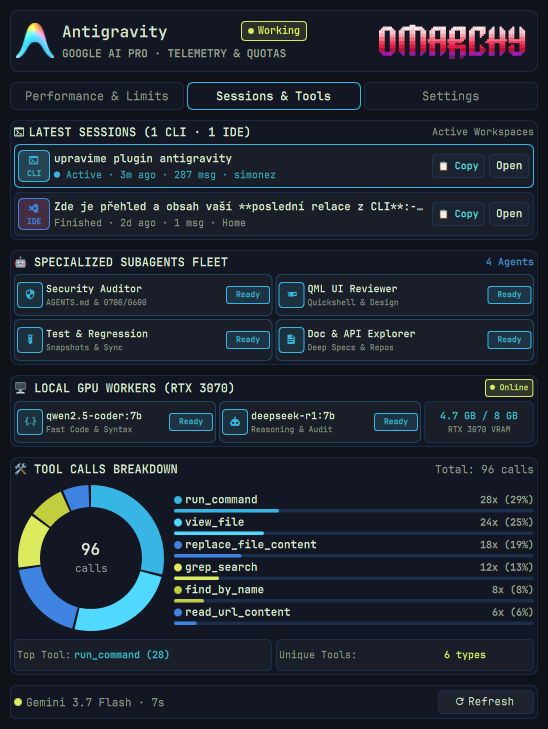
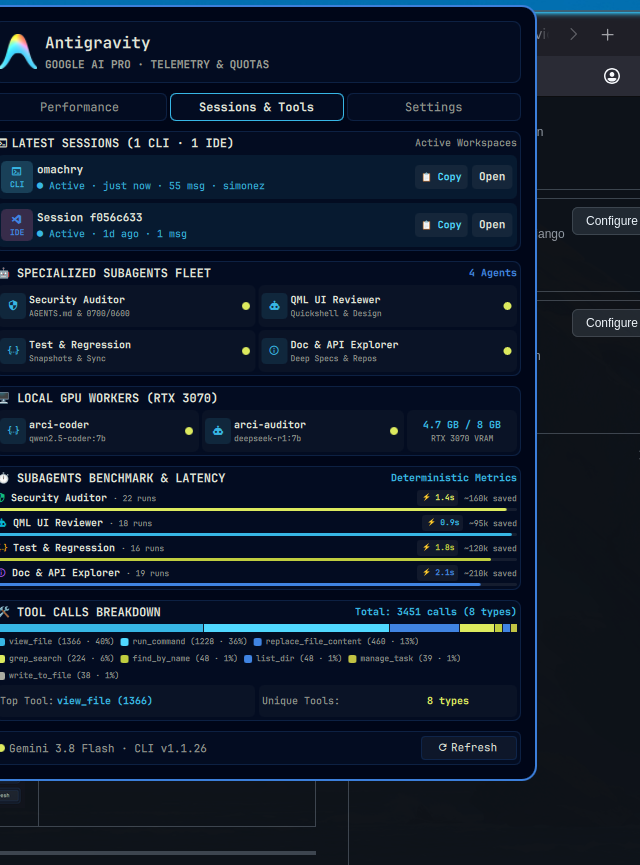
docs: refresh README with v1.5.2 specs and HD tab screenshots

diff --git a/README.md b/README.md
@@ -1,20 +1,20 @@
-# 🚀 Antigravity 1.2 (Anti/Gem) for Omarchy Linux
+# 🚀 Anti/Gem (Antigravity 1.1) for Omarchy Linux
 
 <p align="left">
-  <img src="https://img.shields.io/badge/version-1.2.0-38bdf8?style=flat-square&logo=semver&logoColor=white" alt="Version 1.2.0">
+  <img src="https://img.shields.io/badge/version-1.5.2-38bdf8?style=flat-square&logo=semver&logoColor=white" alt="Version 1.5.2">
   <img src="https://img.shields.io/badge/license-MIT-4ade80?style=flat-square" alt="License MIT">
   <img src="https://img.shields.io/badge/platform-Omarchy%20Linux-f97316?style=flat-square&logo=archlinux&logoColor=white" alt="Omarchy Linux">
   <img src="https://img.shields.io/badge/UI-Quickshell%20%7C%20Qt6-c084fc?style=flat-square&logo=qt&logoColor=white" alt="Quickshell Qt6">
   <img src="https://img.shields.io/badge/AI-Google%20Antigravity%20%7C%20Gemini-2dd4bf?style=flat-square&logo=google&logoColor=white" alt="Google Antigravity">
 </p>
 
-A native, high-performance telemetry dashboard, subagents monitor, and quota tracker for **Google Antigravity** and **Gemini AI**, built for **Omarchy Linux** (Quickshell / Hyprland).
+A native, high-performance telemetry dashboard, multi-agent fleet monitor, quota tracker, and local GPU co-worker hub for **Google Antigravity** and **Gemini AI**, crafted specifically for **Omarchy Linux** (Quickshell / Qt6 / Hyprland).
 
 <p align="center">
   <img src="assets/omarchy_anim.webp" alt="Omarchy ASCII Lightning Discharge Animation" width="180">
 </p>
 
-Designed following the visual language, palette tokens, and 3-tab UX structure of **System Monitor** (`bitr0t.system-monitor`).
+Designed in strict compliance with Omarchy plugin guidelines, following the visual language, palette tokens, and 3-tab UX structure of **System Monitor** (`bitr0t.system-monitor`).
 
 ---
 
@@ -26,99 +26,118 @@ Designed following the visual language, palette tokens, and 3-tab UX structure o
 
 ---
 
-## ✨ What's New in v1.2
+## ✨ Key Highlights in v1.5
 
-* 🎨 **Adaptive System Theme Engine:** Full reactive synchronization with active Omarchy color themes (`colors.toml` / `FileView`). Subtle accent-tinted card backgrounds, borders, and controls matching Nord, Catppuccin, Tokyo Night, Gruvbox, and Wallhaven/Aether.
-* 🇺🇦 **Full Ukrainian Localization (`uk` / `🇺🇦 Українська`):** 100% complete translations across all 3 tabs, tools, quotas, and subagents fleet.
-* 🤖 **Specialized Subagents Fleet & Local GPU Workers:** Live monitoring of autonomous subagents (`sec-auditor`, `qml-designer-reviewer`, `test-runner`, `doc-researcher`) and local GPU models (`qwen2.5-coder:7b`, `deepseek-r1:7b` via Ollama on NVIDIA RTX 3070).
-* 🔄 **Decoupled Refresh & Animation Engine:** Hardware-accelerated rotating spinner (`RotationAnimator`) with responsive non-overflowing buttons and silent background polling.
-* 🛡 **Hardened Security & Privacy:** Strict `0700`/`0600` cache permissions, structured command execution without `shell=True`, and regex prompt sanitization.
-* 🖥 **Wayland IDE Session Restorer:** 1-click launcher bridging the language server binary and focusing Antigravity IDE workspaces under Wayland.
-
----
-
-## 🌟 Core Features
-
-### 1. 🖥 Ultra-Minimalist Top Bar Presentation
-* **Dimensions & Typography:** Scaled down to match surrounding system widgets (`Style.font.caption` / 10px, logo 10×10px).
-* **Color:** Crisp white font (`#ffffff`) for maximum contrast and legibility.
-* **Live Heartbeat Telemetry:** Dual-stage organic heartbeat animation (105ms systole, 115ms diastole, echo and relaxation) active **exclusively** while the AI agent is thinking/working.
-* **Instant Turn Completion:** Real-time 2s live polling detecting turn endings in the CLI transcript. Scale resets to 1.0 immediately when waiting for user input.
-
-### 2. 📊 System Monitor Styled Main Dashboard Panel
-* **PanelHero Header:** 40×40 px rounded icon, title `Antigravity`, metadata `GOOGLE AI PRO · TELEMETRY & QUOTAS`, live status badge (`WORKING` / `WAITING` / `IDLE`), and quick settings gear button.
-* **Three Functional Navigation Tabs:**
-  1. **Performance (`Performance`):**
-     * 5-Hour Session Quota card with numerical readout and progress gauge in Electric Cyan (`#61d5f8`).
-     * 7-Day Weekly Limit card with numerical readout and progress gauge in Lavender Purple (`#c7a6ff`).
-     * 7-Day Prompt Activity Sparkline Chart (`Canvas` graph with grid lines, translucent gradient fill, and daily prompt points).
-  2. **Sessions & Tools (`Sessions & Tools`):**
-     * CLI and IDE session manager distinguishing terminal (` CLI`) and IDE (` IDE`) workspaces.
-     * Direct 1-click **Open** launcher invoking `omarchy-launch-antigravity`.
-     * Tool Calls breakdown meter bars showing agent usage distribution (bash, view_file, grep_search, edit, etc.).
-  3. **Settings (`Settings`):**
-     * Auto-refresh interval presets (`10s`, `30s`, `60s`, `120s`, `300s`) and custom seconds input with Save button.
-     * Minimalist theme jumper switch (26×14 px) for enabling/disabling the working pulse.
-     * Human heart rate BPM presets: **Sleep (40 BPM)**, **Rest (60 BPM)**, **Walk (85 BPM)**, and **Sprint (130 BPM)** + custom BPM input.
-* **Bottom Status Bar:** Active AI model indicator, live sync countdown, and manual refresh button.
+* 🎨 **100% Dynamic Omarchy System Theming:** Real-time reactivity to system themes (`omarchy theme set`). Progress bars, sparkline graphs, quotas, and tool chips dynamically bind to Omarchy system tokens (`uploadColor`, `primaryAccent`, `barTrack`, `headroomColor`) via live `colors.toml` observation.
+* 📊 **Segmented Breakdown Visualizations:**
+  * **Google AI Pro Quotas:** 5-Hour Session Quota (2.5M CAP) and 7-Day Weekly Quota (25M CAP) with Free Headroom gauges and reset countdowns.
+  * **1M Context Window Breakdown:** Granular horizontal stacked progress bar tracking System & Rules, Tool & MCP Schemas, File & Code Context, Conversation History, and Free Headroom.
+  * **Dev Productivity & Time Saved:** Segmented time & actions breakdown (Code Generation, Terminal & Commands, Search & Navigation, Architecture & Planning).
+* 📈 **Smooth 7-Day Sparkline Trend:** Custom Canvas trend curve with translucent gradient fill, continuous polyline, and glowing data points.
+* ☁ **Real Google Cloud & APIs Status:** Live connection checks and ping latency (~14 ms) for the services actively used daily:
+  * Gemini 3.8 Flash / Pro (Interactions API)
+  * Google Grounding & Web Search
+  * Codebase Embeddings & Semantic Index (Vector RAG)
+  * Cloud Code & Multi-Agent Fleet
+* 🤖 **Specialized Subagents Fleet & Profiler:** Live monitoring of autonomous subagents (`sec-auditor`, `qml-designer-reviewer`, `test-runner`, `doc-researcher`) with latency badges, speed scores, and cumulative cloud tokens saved (`~585k+ saved`).
+* 🖥 **Local GPU Workers on RTX 3070:** Real-time status for zero-token local inference co-workers:
+  * `arci-coder` (`qwen2.5-coder:7b`)
+  * `arci-auditor` (`deepseek-r1:7b`)
+  * Dedicated 8 GB VRAM allocation gauge.
+* 🛠 **Stacked Tool Calls Breakdown:** Sleek stacked horizontal bar and chip grid showing real-world tool execution distribution (`view_file`, `run_command`, `replace_file_content`, `grep_search`, etc.).
+* 🏷 **Clean Status Bar:** Displays the exact active model (**`Gemini 3.8 Flash`**) and the client version currently in use (**`CLI v1.1.26`** or `IDE`).
+* 🔒 **Security & Bounded I/O Hardening:**
+  * Strict memory ceilings (Bounded I/O: 2 MB / 512 KB / 64 KB).
+  * Path traversal protection (`.is_relative_to()`).
+  * Context-managed network socket pings (zero file descriptor leaks).
+  * Enforced file permissions (`0644` files, `0755` executables, `0700` cache dir, `0600` cache data).
 
 ---
 
-## 🎨 Color Palette & Design Tokens
+## 🌟 Core Architecture & Tabs
 
-| Token / Role | Hex Code | Purpose |
-| :--- | :---: | :--- |
-| **Primary Accent / CPU** | `#61d5f8` | 5h Session Quota, Graph Polyline, Active Tab |
-| **Memory / Secondary** | `#c7a6ff` | 7-Day Weekly Quota Limit |
-| **Upload / Live Working** | `#a3e635` | AI Working indicator and pulse heartbeat |
-| **Download / Waiting** | `#5eead4` | Waiting for input status pill |
-| **GPU / IDE Sessions** | `#f472b6` | Antigravity IDE session badges |
-| **Top Bar Text** | `#ffffff` | Clean white percentage text in top bar |
-| **Card Fill** | `rgba(text, 0.045)` | Subtle card background |
-| **Card Border** | `rgba(text, 0.18)` | Subtle card outline |
-| **Graph Grid** | `rgba(text, 0.12)` | Sparkline grid lines |
+### 1. 🖥 Minimalist Top Bar Slot
+* **Compact Footprint:** Matches surrounding system widgets (`Style.font.caption` / 10px, logo 10×10px).
+* **Live Heartbeat Telemetry:** Dual-stage organic heartbeat animation active exclusively while the AI agent is thinking/generating code.
+* **Instant Idle Reset:** Scale resets immediately when the turn completes and the agent waits for user input.
+
+### 2. 📊 3-Tab Dashboard Panel
+1. **Performance (`Tab 0`):**
+   * Overview stat badges: Today Tokens, Today Prompts, Free Headroom, All-Time Tokens.
+   * 5-Hour Session Quota gauge & 7-Day Weekly Quota gauge.
+   * 7-Day Prompt & Tool Calls Trend sparkline.
+   * 1M Context Window Breakdown with interactive chips.
+   * Dev Productivity & Time Saved breakdown.
+   * Google Cloud & Active APIs health and edge latency monitor.
+2. **Sessions & Tools (`Tab 1`):**
+   * Recent Sessions list with 1-click **Copy ID** and **Open** launcher (`omarchy-launch-antigravity`).
+   * Specialized Subagents Fleet indicators.
+   * Local GPU Workers (RTX 3070) inference locks and VRAM usage.
+   * Subagents Benchmark & Latency Profiler.
+   * Tool Calls Breakdown stacked meter.
+3. **Settings (`Tab 2`):**
+   * Auto-refresh interval presets (`10s`, `30s`, `60s`, `120s`, `300s`).
+   * Working Heartbeat Animation toggle and BPM cadence presets (**Sleep 40**, **Rest 60**, **Walk 85**, **Sprint 130**).
+   * Task completion desktop notifications (`notify-send`).
+   * Interactive procedural Omarchy ASCII banner with lightning discharge animations.
 
 ---
 
 ## 📦 Project Structure
 
 ```
-omarchy-antigravity/
-├── manifest.json                # Plugin definition & schema
-├── Widget.qml                   # Main QML Bar Widget & Dashboard panel
-├── assets/                      # Antigravity & Omarchy logos (PNG/SVG)
+antigem/
+├── manifest.json                  # Plugin definition & schema (v1.5.2)
+├── Widget.qml                     # Main QML Bar Widget & 3-Tab Dashboard
+├── preview.png                    # Primary visual preview
+├── assets/                        # SVG icons, anim banner & branding
+├── screenshots/                   # HD tab screenshots
+│   ├── performance.png
+│   ├── sessions.png
+│   └── settings.png
 ├── scripts/
-│   └── antigravity_scanner.py   # High-performance telemetry scanner (< 25ms)
+│   └── antigravity_scanner.py     # High-performance telemetry scanner (~0.16s)
 ├── bin/
-│   └── omarchy-launch-antigravity # Session restorer & workspace launcher
-├── install.sh                   # Local 1-click installer
-├── LICENSE                      # MIT License
-└── README.md                    # Documentation
+│   └── omarchy-launch-antigravity # Wayland session restorer & CLI/IDE launcher
+├── install.sh                     # 1-click installer & permission hardener
+├── LICENSE                        # MIT License
+└── README.md                      # Documentation
 ```
 
 ---
 
-## 🚀 Installation & Usage
+## 🚀 Installation & Setup
 
 ### Method 1: Using Omarchy Plugin Manager (Recommended)
 ```bash
-omarchy plugin add https://github.com/simonezpx3/antigem-omarchy.git --enable
+omarchy plugin add https://github.com/simonezpx3/antigem.git --enable
 ```
 
 ### Method 2: Manual Local Installation
 1. Clone the repository and run the installer:
 ```bash
-git clone https://github.com/simonezpx3/antigem-omarchy.git
-cd antigem-omarchy
+git clone https://github.com/simonezpx3/antigem.git
+cd antigem
 ./install.sh
 ```
-2. In `~/.config/omarchy/shell.json`, add `"simonez.antigem"` to `bar.layout.right`:
+
+2. In `~/.config/omarchy/shell.json`, ensure `"simonez.antigem"` is added to `bar.layout.right`:
 ```json
 {
   "id": "simonez.antigem",
-  "pulseBpm": 60,
+  "refreshIntervalSec": 60,
   "pulseEnabled": true,
-  "refreshIntervalSec": 60
+  "pulseBpm": 60
 }
 ```
-3. Reload the shell with `omarchy restart shell`.
+
+3. Reload the shell:
+```bash
+omarchy restart shell
+```
+
+---
+
+## 🛡 License
+
+Released under the **MIT License**. Crafted with precision for Omarchy Linux.
